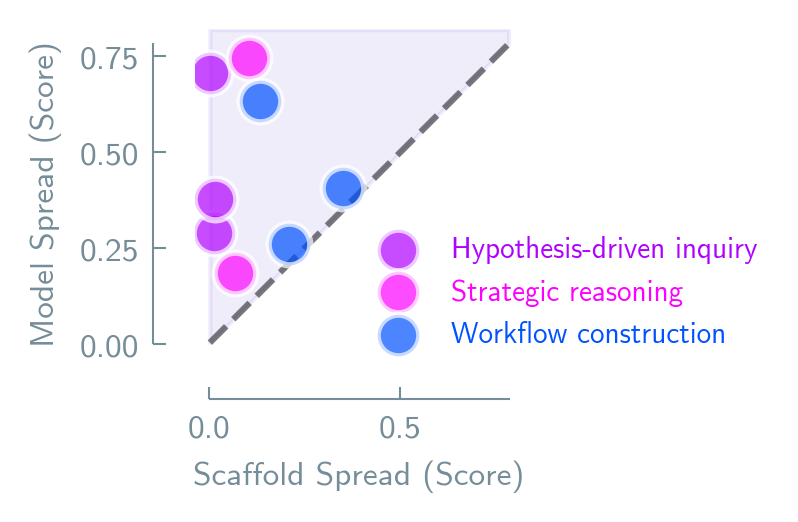
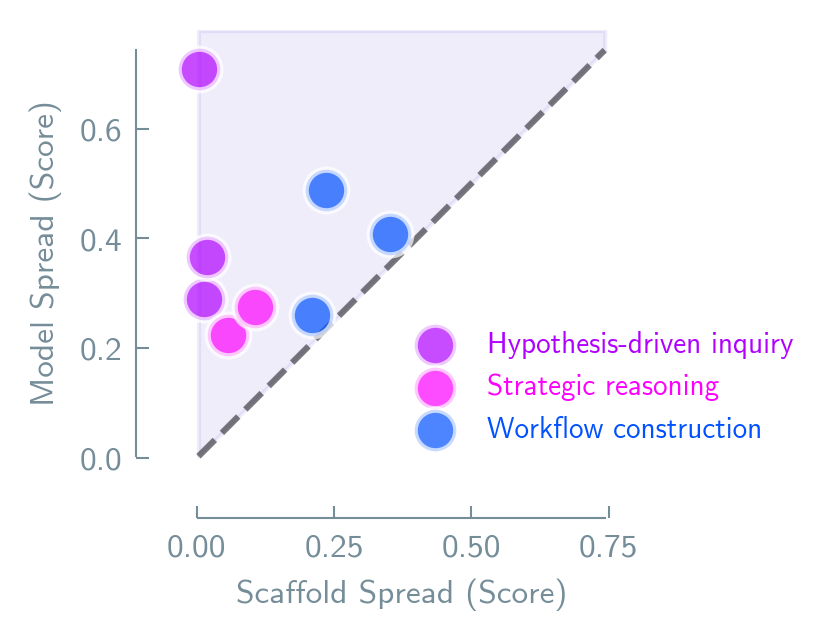
chore: push origin main

diff --git a/plots/panel_2/2c_task_category_line.py b/plots/panel_2/2c_task_category_line.py
@@ -16,7 +16,7 @@ from pathlib import Path
 import lama_aesthetics
 import matplotlib.pyplot as plt
 import numpy as np
-from lama_aesthetics import ONE_COL_HEIGHT, ONE_COL_WIDTH
+from lama_aesthetics import TWO_COL_WIDTH
 from lama_aesthetics.plotutils import range_frame
 from loguru import logger
 from matplotlib.lines import Line2D
@@ -142,15 +142,14 @@ def main():
     category_tags = load_category_tags()
 
     df_sub = reports_df[reports_df["category"] == "subtask"].copy()
-    df_comp = df_sub[df_sub["Tool Verbosity"] == "comprehensive"].copy()
-    logger.info(f"Filtered to {len(df_comp)} rows (subtask + comprehensive)")
+    logger.info(f"Filtered to {len(df_sub)} rows (subtask, all verbosities)")
 
     category_order = ["retrieval", "execution", "reasoning", "validation"]
 
     # Collect scores by (agent_type, category) — average across models
     scores_by_agent_cat = defaultdict(lambda: defaultdict(list))
 
-    for _, row in df_comp.iterrows():
+    for _, row in df_sub.iterrows():
         agent_type = row["agent_type"]
         environment = row["environment"]
         task_results = row["Task Results"]
@@ -184,7 +183,10 @@ def main():
             )
 
     # Plot
-    fig, ax = plt.subplots(figsize=(ONE_COL_WIDTH, ONE_COL_HEIGHT))
+    GOLDEN_RATIO = 1.618
+    fig_w = TWO_COL_WIDTH / 2
+    fig_h = fig_w / GOLDEN_RATIO
+    fig, ax = plt.subplots(figsize=(fig_w, fig_h))
     x_values = np.arange(len(category_order))
 
     # Grey vertical lines at each category

diff --git a/plots/panel_2/2b_gap_scatter.py b/plots/panel_2/2b_gap_scatter.py
@@ -16,7 +16,7 @@ import lama_aesthetics
 import matplotlib.pyplot as plt
 import numpy as np
 import pandas as pd
-from lama_aesthetics import ONE_COL_HEIGHT, ONE_COL_WIDTH
+from lama_aesthetics import TWO_COL_WIDTH
 from lama_aesthetics.plotutils import range_frame
 from loguru import logger
 
@@ -35,7 +35,6 @@ from plot_config import (  # noqa: E402
     GROUP_COLOURS,
 )
 from plot_utils import (  # noqa: E402
-    filter_by_level,
     filter_by_task_type,
     filter_by_verbosity,
     get_metric_column_name,
@@ -126,7 +125,10 @@ def plot_gap_scatter(
     model_gaps = [gap_data[env]["model_gap"] for env in environments]
 
     # Create figure
-    fig, ax = plt.subplots(1, 1, figsize=(ONE_COL_WIDTH, ONE_COL_HEIGHT))
+    GOLDEN_RATIO = 1.618
+    fig_w = TWO_COL_WIDTH / 2
+    fig_h = fig_w / GOLDEN_RATIO
+    fig, ax = plt.subplots(1, 1, figsize=(fig_w, fig_h))
 
     # Plot diagonal line (y=x) first
     max_gap = max(*agent_gaps, *model_gaps)
@@ -286,7 +288,6 @@ def main(
         filtered_df, None if verbosity_strategy == "average" else verbosity_strategy
     )
     filtered_df = filter_by_task_type(filtered_df, task_type_strategy)
-    filtered_df = filter_by_level(filtered_df, level_strategy)
 
     logger.info(f"Filtered to {len(filtered_df)} rows")
     logger.info("")
